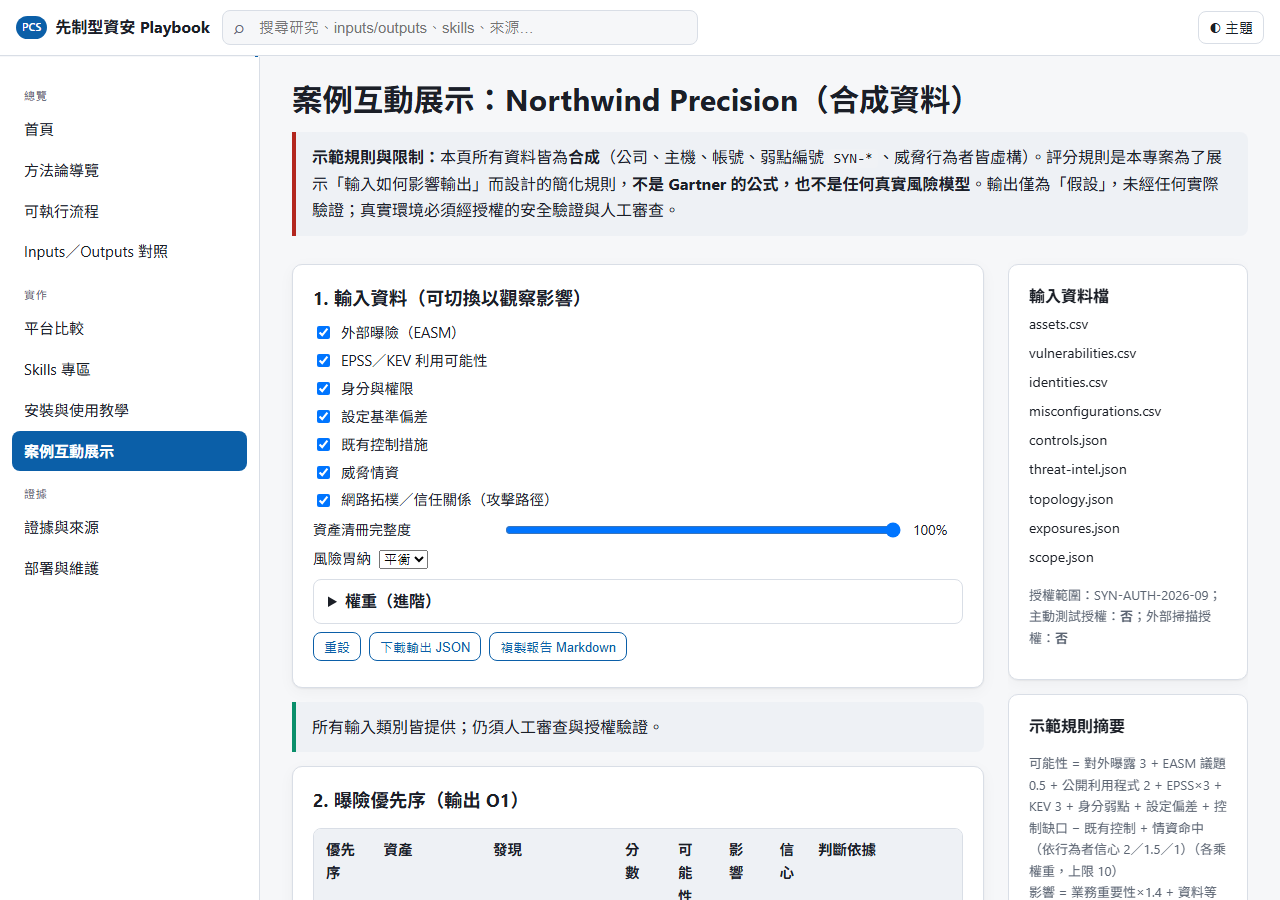
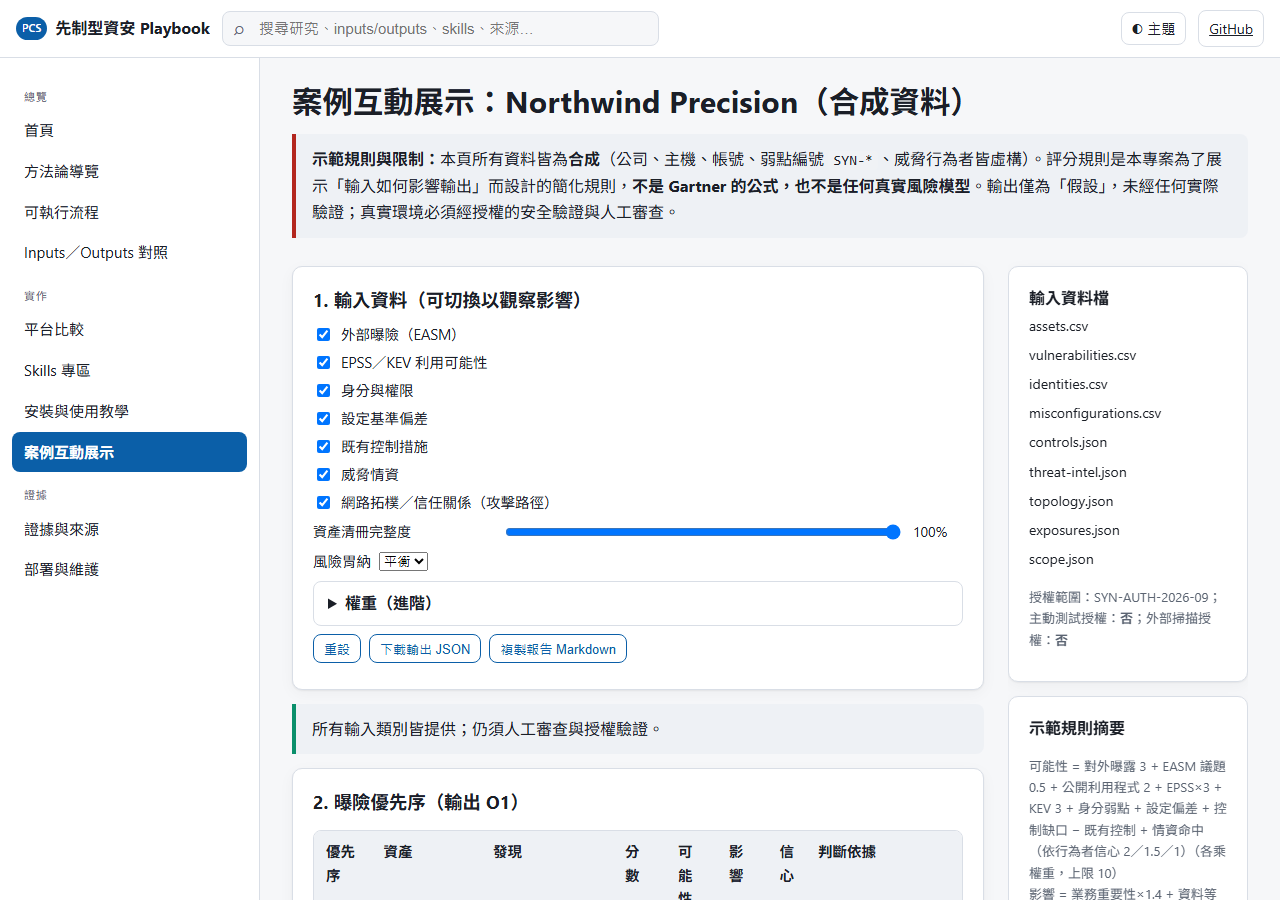
儲存庫轉為公開：顯示儲存庫連結，並讓 verify 守住這個狀態
使用者已於 2026-09-14 把儲存庫改為 public，指向 repo 的連結不再是 404。

- assets/app.js：REPO_PUBLIC 改為 true。順手把邏輯反過來——HTML 預設顯示、JS 只負責
  隱藏。這樣不會有「載入後才出現」的閃動，JS 失效時連結也還在。
- index.html：移除 #repo-link 與 #repo-footer 的 hidden，註解改為說明改回 private 時要做什麼。
- scripts/verify.mjs：新增瀏覽器檢查，比對兩個連結的實際顯示狀態與 REPO_PUBLIC 是否一致。
  這個錯誤維護者自己看不出來（有 repo 權限，連結對自己是通的），必須讓機器盯。
- docs/guides/deployment.md：第 6 節更新，並寫明「改回 private 時記得改回 false」的理由。

驗證：npm run verify 76/76（含真實 Chromium）。截圖全數更新是因為 topbar 多了 GitHub 按鈕。

diff --git a/data/guides.js b/data/guides.js
@@ -46,6 +46,6 @@ window.GUIDE_DOCS = [
   "title": "部署與維護",
   "order": 90,
   "platform": "",
-  "body": "\n## 1. 網站架構\n\n純靜態網站，無建置框架、無外部相依（無 CDN、無追蹤）：\n\n```\nindex.html            單頁應用程式殼\nassets/styles.css     樣式（淺／深色、行動裝置、列印）\nassets/md.js          極簡 Markdown 渲染器\nassets/demo.js        案例互動展示的確定性引擎\nassets/app.js         hash 路由、各頁面、全站搜尋、複製／下載\ndata/*.js             由 scripts/build-data.mjs 產生（research、guides、skills、case、manifest）或手動維護（process、io、platforms、sources）\ndownloads/*.zip       由建置腳本產生的下載包\ndocs/                 研究文件（research/）、教學（guides/）、證據檔（evidence/）\nskills/               共用規格與五平台檔案（單一來源）\nexamples/             合成範例資料、預期輸出、示範引擎快照與驗收夾具\nscripts/              build-data.mjs、verify.mjs、run-demo.mjs、check-acceptance.mjs\nbackend/              選用的模型 API 代理範例（預設不需要）\npackage.json          npm scripts（建置／驗證的唯一入口）與 Playwright 版本\n.gitattributes        強制文字檔使用 LF（見第 7 節）\nrobots.txt            允許索引，指向 sitemap\nsitemap.xml           只有一個 URL（hash 路由的 SPA，片段不被索引）\n.nojekyll             關閉 GitHub Pages 的 Jekyll 處理\n.github/workflows/    pages.yml（部署）、ci.yml（PR 驗證）、link-check.yml（來源連結檢查）、model-acceptance.yml（真實模型驗收）、quarterly-review.yml（季度查證提醒）\n.github/dependabot.yml  只追蹤 GitHub Actions 版本\n```\n\n內容以 `docs/` 與 `skills/` 為單一來源；**修改後務必執行** `npm run build` 重新產生 `data/` 與 `downloads/`，否則網站不會更新。\n\n## 2. 本機預覽\n\n```bash\ngit clone https://github.com/chinchiang/GartnerPreemptiveCybersecurity_Claude.git\ncd GartnerPreemptiveCybersecurity_Claude\nnpm run build                  # 等同 node scripts/build-data.mjs，不需要 npm install\nnpx http-server -p 8080 .      # 或 python3 -m http.server 8080\n# 開啟 http://localhost:8080/\n```\n\n建置與靜態驗證只用 Node 內建模組，**不需要 `npm install`**；只有瀏覽器驗證（Playwright）需要 `npm ci`。\n\n直接以 `file://` 開啟 `index.html` 也可運作（資料以 `<script>` 載入，不依賴 fetch）。\n\n## 3. GitHub Pages 部署\n\n工作流程 `.github/workflows/pages.yml` 會在推送到 `main` 時：安裝 Node 22 → `npm run build` → `npm run verify:static` → 上傳整個儲存庫為 Pages artifact → 部署。\n\n**已完成的一次性設定**（2026-09-13）：儲存庫 Settings → Pages → Build and deployment → Source 選 **GitHub Actions**；預設分支設為 `main`；`github-pages` 環境的部署分支規則允許 `main`。目前網址為 `https://chinchiang.github.io/GartnerPreemptiveCybersecurity_Claude/`，部署工作流程已成功執行並經人工確認。若新建 fork 或搬移儲存庫，需重做這三項設定。\n\n若偏好「Deploy from a branch」，也可以直接選 `main` 分支根目錄（因為 `data/` 與 `downloads/` 已提交），但建議用 Actions 以確保建置一致。\n\n## 4. 驗證\n\n```bash\nnpm run verify:static   # 資料檔、來源 ID 對應、schema、示範引擎驗收與快照、下載檔、機敏字串\nnpm run verify          # 加上 Playwright 瀏覽器檢查：導覽、搜尋、篩選、複製、下載、案例互動、行動裝置、無障礙\nnpm run verify:links    # 靜態檢查 + 來源連結 HEAD 檢查（不含瀏覽器），輸出 link-check.md（見第 4.2 節）\n```\n\n結果寫入 `verify-report.md`；截圖在 `verify-screenshots/`。任一項失敗時腳本以非零狀態結束。\n\n### 4.1 示範引擎快照\n\n評分規則同時存在於四個地方（`assets/demo.js`、`skills/shared/core-prompt.md`、`skills/shared/task-spec.md` 附錄 A、`skills/claude/.../references/scoring-rules.md`）。`examples/demo-snapshot.txt` 是 `run-demo.mjs` 的黃金輸出，`verify:static` 會逐位元組比對，用來抓「改了一處忘了同步其他三處」。\n\n規則**刻意**變更時：先確認四處都已同步，再執行 `npm run snapshot` 更新快照，並在 PR 說明變更理由。\n\n### 4.2 來源連結檢查在哪裡跑\n\n本地研究環境的出口 proxy 會把 gartner.com 等網域回成 403，**那不代表連結失效**。GitHub Actions runner 沒有這層限制，因此連結檢查改在 CI 執行：`.github/workflows/link-check.yml`（手動 `workflow_dispatch`，另每季 1 月／4 月／7 月／10 月 1 日自動執行），結果以 artifact 形式提供，確認後再覆蓋 `link-check.md` 並更新 `data/sources.js` 的 `LINK_CHECK_NOTE`。\n\nRunner 走資料中心 IP，Gartner 與部分媒體站仍可能因 bot 防護回 403；能藉此區分「本地 proxy 封鎖」與「站方封鎖」已是有價值的資訊。\n\n### 4.3 真實模型驗收\n\n前面兩節驗的都是**專案本身**（資料一致、示範引擎、網站行為），不需要金鑰、結果可重現。**模型實際輸出的品質**是另一件事，用 `.github/workflows/model-acceptance.yml` 手動觸發：\n\n```bash\n# 本機等價操作（金鑰只從環境變數讀）\npython3 skills/chatgpt/api-workflow.py --input-dir examples/synthetic-org --output-dir output/baseline\nnode scripts/check-acceptance.mjs output/baseline/chatgpt-output.json\n```\n\n`scripts/check-acceptance.mjs` 檢查 `references/acceptance.md` 七項驗收中可機器判定的部分：頂層鍵與每個區塊的證據欄位、九個輸入檔筆數、`vpn-gw-01/SYN-2026-0101` 是否為 P1 且含四項關鍵依據、攻擊路徑鏈是否存在且標為 `hypothesis`、驗證計畫是否每項標「尚未授權」、管理摘要長度與決策請求；`--variant no-intel` 另檢查移除情資後是否標示缺漏並下修信心。\n\n刻意**不**檢查中文品質、建議是否合理、遮罩是否足夠——這些用 `docs/evidence/model-acceptance-template.md` 人工判讀並留紀錄。\n\n`examples/acceptance-fixture.json` 是一份「應該全部通過」的合成夾具，`verify:static` 會用它反向測試驗收腳本本身沒壞（同一份夾具在 `no-intel` 變體下必須失敗，否則表示該檢查是空的）。**它不是任何模型的真實輸出。**\n\nClaude 沒有 `api-workflow.py`（只有 `scripts/validate_inputs.py`），驗收需在 Claude Code 或 claude.ai 手動執行後，把輸出 JSON 存檔再跑上面的腳本。\n\n## 5. 維護\n\n| 要更新什麼 | 改哪裡 | 之後 |\n|---|---|---|\n| 研究內容 | `docs/research/*.md`（frontmatter `order`、`title`、`summary`） | `npm run build` |\n| 來源、待驗證清單、連結檢查紀錄 | `data/sources.js` | 無需 build |\n| 流程／I-O／平台比較 | `data/process.js`、`data/io.js`、`data/platforms.js` | 無需 build |\n| Skills | `skills/<platform>/…`；規則變更先改 `skills/shared/` 再同步各平台 | `npm run build` |\n| 教學 | `docs/guides/<platform>.md` | `npm run build` |\n| 範例資料 | `examples/synthetic-org/`（保持合成） | build；`npm run demo` 對照 `examples/expected-output.md`，再 `npm run snapshot` |\n| 評分規則 | `skills/shared/task-spec.md` 附錄 A、`core-prompt.md`、`assets/demo.js`、`references/scoring-rules.md` 需一致 | build + verify + `npm run snapshot` |\n\n`data/` 與 `downloads/` 是建置產物但**有進版控**（為了讓 `file://` 與「Deploy from a branch」都能用）。CI 會執行 `git diff --exit-code -- data/ downloads/`，忘記重建就會擋下 PR。`data/manifest.js` 內的 `contentHash` 是來源內容的 SHA-256 前 12 碼——刻意不放建置時間，這樣同一份內容永遠產生同一個 manifest，上述檢查才守得住。\n\n建議每季重新查證：Gartner 新文件（尤其 Impact Radar 與 Hype Cycle 更新）、五個平台的模型與功能變動（見待驗證清單）。這件事已由 `.github/workflows/quarterly-review.yml` 每季（1／4／7／10 月 1 日）自動開一個 issue，內容是 `data/sources.js` 中 `status: 'pending'` 的項目所組成的勾選清單（`node scripts/todo-checklist.mjs` 可在本機預覽）。查證完成後把該項改成 `status: 'done'` 並填 `resolvedAt`——`verify:static` 會檢查 `pending` 項目都寫出了下一步、`done` 項目都有日期。\n\n`sitemap.xml` 的 `<lastmod>` 是手寫的，內容有較大幅度更新時順手改一下即可（刻意不由建置產生：那會讓 `data/` 的一致性檢查每天都失敗）。\n\n## 6. 安全與隱私\n\n- 儲存庫與網站不含任何 API 金鑰、憑證或真實資料；`verify.mjs` 會掃描金鑰樣式字串。\n- 網站不使用 cookie、不連外部服務；主題偏好只存於 `localStorage`。\n- `index.html` 有 CSP meta：`default-src 'self'`、`object-src 'none'`、`form-action 'none'`。`style-src` 必須保留 `'unsafe-inline'`（`assets/app.js` 有 18 處 `style=\"…\"` 屬性），`img-src` 必須保留 `data:`（favicon 是內嵌 SVG）。**加入任何外部資源前先改這一行**，否則瀏覽器會靜默擋掉；`npm run verify` 會把 CSP 違規當成 console error 而失敗。\n- 儲存庫目前為 private 而 Pages 站點公開，因此指向儲存庫的連結（topbar 按鈕與頁尾）預設隱藏，由 `assets/app.js` 的 `REPO_PUBLIC` 控制；轉為公開後改成 `true`。\n- 若啟用 `backend/` 代理，金鑰只在伺服器端，並限制來源與速率。\n\n## 7. 在 Windows 上開發\n\n`.gitattributes` 以 `* text=auto eol=lf` 強制所有文字檔在工作樹中使用 LF。**這不是風格偏好**：`build-data.mjs` 會把 `docs/` 與 `skills/` 的內容內嵌進 `data/*.js` 並打包成 ZIP，若以 CRLF 簽出，產出的位元組就與 Linux（CI／Pages）不同，第 5 節的一致性檢查會誤報。\n\n腳本本身也已對 CRLF 免疫（`readText()` 正規化換行、`parseFrontmatter()` 接受 `\\r?\\n`、路徑一律轉為 `/`），所以就算你的工作樹是 CRLF，建置結果仍然正確。若是在加入 `.gitattributes` 之前就已存在的 clone，執行一次 `git add --renormalize .` 確認索引乾淨即可。\n\n另外：`docs/guides/claude.md` 在不分大小寫的檔案系統上會被 Claude Code 誤認為 `CLAUDE.md` 專案指令檔而自動載入。這只影響在本儲存庫中使用 Claude Code 的體驗，不影響網站；若造成干擾，可在根目錄放一份真正的 `CLAUDE.md` 覆寫。\n"
+  "body": "\n## 1. 網站架構\n\n純靜態網站，無建置框架、無外部相依（無 CDN、無追蹤）：\n\n```\nindex.html            單頁應用程式殼\nassets/styles.css     樣式（淺／深色、行動裝置、列印）\nassets/md.js          極簡 Markdown 渲染器\nassets/demo.js        案例互動展示的確定性引擎\nassets/app.js         hash 路由、各頁面、全站搜尋、複製／下載\ndata/*.js             由 scripts/build-data.mjs 產生（research、guides、skills、case、manifest）或手動維護（process、io、platforms、sources）\ndownloads/*.zip       由建置腳本產生的下載包\ndocs/                 研究文件（research/）、教學（guides/）、證據檔（evidence/）\nskills/               共用規格與五平台檔案（單一來源）\nexamples/             合成範例資料、預期輸出、示範引擎快照與驗收夾具\nscripts/              build-data.mjs、verify.mjs、run-demo.mjs、check-acceptance.mjs\nbackend/              選用的模型 API 代理範例（預設不需要）\npackage.json          npm scripts（建置／驗證的唯一入口）與 Playwright 版本\n.gitattributes        強制文字檔使用 LF（見第 7 節）\nrobots.txt            允許索引，指向 sitemap\nsitemap.xml           只有一個 URL（hash 路由的 SPA，片段不被索引）\n.nojekyll             關閉 GitHub Pages 的 Jekyll 處理\n.github/workflows/    pages.yml（部署）、ci.yml（PR 驗證）、link-check.yml（來源連結檢查）、model-acceptance.yml（真實模型驗收）、quarterly-review.yml（季度查證提醒）\n.github/dependabot.yml  只追蹤 GitHub Actions 版本\n```\n\n內容以 `docs/` 與 `skills/` 為單一來源；**修改後務必執行** `npm run build` 重新產生 `data/` 與 `downloads/`，否則網站不會更新。\n\n## 2. 本機預覽\n\n```bash\ngit clone https://github.com/chinchiang/GartnerPreemptiveCybersecurity_Claude.git\ncd GartnerPreemptiveCybersecurity_Claude\nnpm run build                  # 等同 node scripts/build-data.mjs，不需要 npm install\nnpx http-server -p 8080 .      # 或 python3 -m http.server 8080\n# 開啟 http://localhost:8080/\n```\n\n建置與靜態驗證只用 Node 內建模組，**不需要 `npm install`**；只有瀏覽器驗證（Playwright）需要 `npm ci`。\n\n直接以 `file://` 開啟 `index.html` 也可運作（資料以 `<script>` 載入，不依賴 fetch）。\n\n## 3. GitHub Pages 部署\n\n工作流程 `.github/workflows/pages.yml` 會在推送到 `main` 時：安裝 Node 22 → `npm run build` → `npm run verify:static` → 上傳整個儲存庫為 Pages artifact → 部署。\n\n**已完成的一次性設定**（2026-09-13）：儲存庫 Settings → Pages → Build and deployment → Source 選 **GitHub Actions**；預設分支設為 `main`；`github-pages` 環境的部署分支規則允許 `main`。目前網址為 `https://chinchiang.github.io/GartnerPreemptiveCybersecurity_Claude/`，部署工作流程已成功執行並經人工確認。若新建 fork 或搬移儲存庫，需重做這三項設定。\n\n若偏好「Deploy from a branch」，也可以直接選 `main` 分支根目錄（因為 `data/` 與 `downloads/` 已提交），但建議用 Actions 以確保建置一致。\n\n## 4. 驗證\n\n```bash\nnpm run verify:static   # 資料檔、來源 ID 對應、schema、示範引擎驗收與快照、下載檔、機敏字串\nnpm run verify          # 加上 Playwright 瀏覽器檢查：導覽、搜尋、篩選、複製、下載、案例互動、行動裝置、無障礙\nnpm run verify:links    # 靜態檢查 + 來源連結 HEAD 檢查（不含瀏覽器），輸出 link-check.md（見第 4.2 節）\n```\n\n結果寫入 `verify-report.md`；截圖在 `verify-screenshots/`。任一項失敗時腳本以非零狀態結束。\n\n### 4.1 示範引擎快照\n\n評分規則同時存在於四個地方（`assets/demo.js`、`skills/shared/core-prompt.md`、`skills/shared/task-spec.md` 附錄 A、`skills/claude/.../references/scoring-rules.md`）。`examples/demo-snapshot.txt` 是 `run-demo.mjs` 的黃金輸出，`verify:static` 會逐位元組比對，用來抓「改了一處忘了同步其他三處」。\n\n規則**刻意**變更時：先確認四處都已同步，再執行 `npm run snapshot` 更新快照，並在 PR 說明變更理由。\n\n### 4.2 來源連結檢查在哪裡跑\n\n本地研究環境的出口 proxy 會把 gartner.com 等網域回成 403，**那不代表連結失效**。GitHub Actions runner 沒有這層限制，因此連結檢查改在 CI 執行：`.github/workflows/link-check.yml`（手動 `workflow_dispatch`，另每季 1 月／4 月／7 月／10 月 1 日自動執行），結果以 artifact 形式提供，確認後再覆蓋 `link-check.md` 並更新 `data/sources.js` 的 `LINK_CHECK_NOTE`。\n\nRunner 走資料中心 IP，Gartner 與部分媒體站仍可能因 bot 防護回 403；能藉此區分「本地 proxy 封鎖」與「站方封鎖」已是有價值的資訊。\n\n### 4.3 真實模型驗收\n\n前面兩節驗的都是**專案本身**（資料一致、示範引擎、網站行為），不需要金鑰、結果可重現。**模型實際輸出的品質**是另一件事，用 `.github/workflows/model-acceptance.yml` 手動觸發：\n\n```bash\n# 本機等價操作（金鑰只從環境變數讀）\npython3 skills/chatgpt/api-workflow.py --input-dir examples/synthetic-org --output-dir output/baseline\nnode scripts/check-acceptance.mjs output/baseline/chatgpt-output.json\n```\n\n`scripts/check-acceptance.mjs` 檢查 `references/acceptance.md` 七項驗收中可機器判定的部分：頂層鍵與每個區塊的證據欄位、九個輸入檔筆數、`vpn-gw-01/SYN-2026-0101` 是否為 P1 且含四項關鍵依據、攻擊路徑鏈是否存在且標為 `hypothesis`、驗證計畫是否每項標「尚未授權」、管理摘要長度與決策請求；`--variant no-intel` 另檢查移除情資後是否標示缺漏並下修信心。\n\n刻意**不**檢查中文品質、建議是否合理、遮罩是否足夠——這些用 `docs/evidence/model-acceptance-template.md` 人工判讀並留紀錄。\n\n`examples/acceptance-fixture.json` 是一份「應該全部通過」的合成夾具，`verify:static` 會用它反向測試驗收腳本本身沒壞（同一份夾具在 `no-intel` 變體下必須失敗，否則表示該檢查是空的）。**它不是任何模型的真實輸出。**\n\nClaude 沒有 `api-workflow.py`（只有 `scripts/validate_inputs.py`），驗收需在 Claude Code 或 claude.ai 手動執行後，把輸出 JSON 存檔再跑上面的腳本。\n\n## 5. 維護\n\n| 要更新什麼 | 改哪裡 | 之後 |\n|---|---|---|\n| 研究內容 | `docs/research/*.md`（frontmatter `order`、`title`、`summary`） | `npm run build` |\n| 來源、待驗證清單、連結檢查紀錄 | `data/sources.js` | 無需 build |\n| 流程／I-O／平台比較 | `data/process.js`、`data/io.js`、`data/platforms.js` | 無需 build |\n| Skills | `skills/<platform>/…`；規則變更先改 `skills/shared/` 再同步各平台 | `npm run build` |\n| 教學 | `docs/guides/<platform>.md` | `npm run build` |\n| 範例資料 | `examples/synthetic-org/`（保持合成） | build；`npm run demo` 對照 `examples/expected-output.md`，再 `npm run snapshot` |\n| 評分規則 | `skills/shared/task-spec.md` 附錄 A、`core-prompt.md`、`assets/demo.js`、`references/scoring-rules.md` 需一致 | build + verify + `npm run snapshot` |\n\n`data/` 與 `downloads/` 是建置產物但**有進版控**（為了讓 `file://` 與「Deploy from a branch」都能用）。CI 會執行 `git diff --exit-code -- data/ downloads/`，忘記重建就會擋下 PR。`data/manifest.js` 內的 `contentHash` 是來源內容的 SHA-256 前 12 碼——刻意不放建置時間，這樣同一份內容永遠產生同一個 manifest，上述檢查才守得住。\n\n建議每季重新查證：Gartner 新文件（尤其 Impact Radar 與 Hype Cycle 更新）、五個平台的模型與功能變動（見待驗證清單）。這件事已由 `.github/workflows/quarterly-review.yml` 每季（1／4／7／10 月 1 日）自動開一個 issue，內容是 `data/sources.js` 中 `status: 'pending'` 的項目所組成的勾選清單（`node scripts/todo-checklist.mjs` 可在本機預覽）。查證完成後把該項改成 `status: 'done'` 並填 `resolvedAt`——`verify:static` 會檢查 `pending` 項目都寫出了下一步、`done` 項目都有日期。\n\n`sitemap.xml` 的 `<lastmod>` 是手寫的，內容有較大幅度更新時順手改一下即可（刻意不由建置產生：那會讓 `data/` 的一致性檢查每天都失敗）。\n\n## 6. 安全與隱私\n\n- 儲存庫與網站不含任何 API 金鑰、憑證或真實資料；`verify.mjs` 會掃描金鑰樣式字串。\n- 網站不使用 cookie、不連外部服務；主題偏好只存於 `localStorage`。\n- `index.html` 有 CSP meta：`default-src 'self'`、`object-src 'none'`、`form-action 'none'`。`style-src` 必須保留 `'unsafe-inline'`（`assets/app.js` 有 18 處 `style=\"…\"` 屬性），`img-src` 必須保留 `data:`（favicon 是內嵌 SVG）。**加入任何外部資源前先改這一行**，否則瀏覽器會靜默擋掉；`npm run verify` 會把 CSP 違規當成 console error 而失敗。\n- 儲存庫已於 2026-09-14 轉為公開，指向儲存庫的連結（topbar 按鈕與頁尾）因此顯示。**若改回 private 記得把 `assets/app.js` 的 `REPO_PUBLIC` 改成 `false`**：Pages 站點是公開的，指向 private 儲存庫的連結對訪客一律是 404，而站在維護者的瀏覽器裡看不出來（你有權限）。\n- 若啟用 `backend/` 代理，金鑰只在伺服器端，並限制來源與速率。\n\n## 7. 在 Windows 上開發\n\n`.gitattributes` 以 `* text=auto eol=lf` 強制所有文字檔在工作樹中使用 LF。**這不是風格偏好**：`build-data.mjs` 會把 `docs/` 與 `skills/` 的內容內嵌進 `data/*.js` 並打包成 ZIP，若以 CRLF 簽出，產出的位元組就與 Linux（CI／Pages）不同，第 5 節的一致性檢查會誤報。\n\n腳本本身也已對 CRLF 免疫（`readText()` 正規化換行、`parseFrontmatter()` 接受 `\\r?\\n`、路徑一律轉為 `/`），所以就算你的工作樹是 CRLF，建置結果仍然正確。若是在加入 `.gitattributes` 之前就已存在的 clone，執行一次 `git add --renormalize .` 確認索引乾淨即可。\n\n另外：`docs/guides/claude.md` 在不分大小寫的檔案系統上會被 Claude Code 誤認為 `CLAUDE.md` 專案指令檔而自動載入。這只影響在本儲存庫中使用 Claude Code 的體驗，不影響網站；若造成干擾，可在根目錄放一份真正的 `CLAUDE.md` 覆寫。\n"
  }
 ];

diff --git a/assets/app.js b/assets/app.js
@@ -10,9 +10,10 @@
     stages: window.PROCESS_STAGES || [], io: window.IO_ITEMS || [], platforms: window.PLATFORMS || [], sources: window.SOURCES || [], todo: window.TODO_ITEMS || [],
     manifest: window.BUILD_MANIFEST || {}
   };
-  // 儲存庫為 private、Pages 站點為公開時，任何指向 repo 的連結對訪客都是 404。
-  // 儲存庫轉為公開後把 REPO_PUBLIC 改成 true，topbar 的 GitHub 按鈕與頁尾的儲存庫連結就會顯示。
-  const REPO_PUBLIC = false;
+  // 儲存庫已於 2026-09-14 轉為公開，因此指向 repo 的連結（topbar 按鈕、頁尾）預設顯示。
+  // 若改回 private，把這裡改成 false 即會隱藏——Pages 站點是公開的，指向 private 儲存庫的
+  // 連結對訪客一律是 404。預設值放在 HTML（可見），JS 只負責隱藏，這樣 JS 失效時連結仍在。
+  const REPO_PUBLIC = true;
   const PLATFORM_META = { claude: 'Claude', chatgpt: 'ChatGPT', grok: 'Grok', glm: 'GLM', deepseek: 'DeepSeek', shared: '共用規格' };
   const PLATFORM_ORDER = ['shared', 'chatgpt', 'claude', 'grok', 'glm', 'deepseek'];
   const TAG = { fact: '<span class="pill fact">Gartner 明確陳述</span>', third: '<span class="pill">其他來源</span>', infer: '<span class="pill infer">本專案推論</span>', rec: '<span class="pill rec">建議</span>', todo: '<span class="pill todo">待驗證</span>' };
@@ -456,7 +457,7 @@
   // ---------- 初始化 ----------
   function init() {
     $('.sidebar nav').innerHTML = NAV.map(([g, items]) => `<div class="group">${g}</div>${items.map(([h, t]) => `<a href="#${h}">${t}</a>`).join('')}`).join('');
-    if (REPO_PUBLIC) for (const id of ['#repo-link', '#repo-footer']) { const n = $(id); if (n) n.hidden = false; }
+    if (!REPO_PUBLIC) for (const id of ['#repo-link', '#repo-footer']) { const n = $(id); if (n) n.hidden = true; }
     $('#menu-btn').addEventListener('click', () => { const s = $('.sidebar'); s.classList.toggle('open'); $('#menu-btn').setAttribute('aria-expanded', s.classList.contains('open')); });
     const themeBtn = $('#theme-btn');
     const applyTheme = (t) => { if (t) document.documentElement.setAttribute('data-theme', t); else document.documentElement.removeAttribute('data-theme'); themeBtn.textContent = t === 'dark' ? '☀ 淺色' : t === 'light' ? '☾ 深色' : '◐ 主題'; };

diff --git a/index.html b/index.html
@@ -37,9 +37,10 @@
     </div>
     <div class="spacer"></div>
     <button class="icon-btn" id="theme-btn" aria-label="切換色彩主題">◐ 主題</button>
-    <!-- 儲存庫目前為 private，Pages 站點是公開的：對訪客而言此連結是 404，因此預設隱藏。
-         儲存庫轉為公開後，把 assets/app.js 的 REPO_PUBLIC 改成 true 即會顯示。 -->
-    <a class="icon-btn" id="repo-link" hidden href="https://github.com/chinchiang/GartnerPreemptiveCybersecurity_Claude" target="_blank" rel="noopener" aria-label="GitHub 儲存庫">GitHub</a>
+    <!-- 儲存庫為公開，因此此連結預設顯示。
+         若日後改回 private，把 assets/app.js 的 REPO_PUBLIC 改成 false，這個按鈕與頁尾的
+         儲存庫連結就會隱藏——Pages 站點是公開的，指向 private 儲存庫的連結對訪客是 404。 -->
+    <a class="icon-btn" id="repo-link" href="https://github.com/chinchiang/GartnerPreemptiveCybersecurity_Claude" target="_blank" rel="noopener" aria-label="GitHub 儲存庫">GitHub</a>
   </header>
   <div class="layout">
     <aside class="sidebar" id="sidebar" aria-label="主要導覽"><nav></nav></aside>
@@ -47,9 +48,8 @@
   </div>
   <footer class="site-footer">
     本站內容以正體中文撰寫，保留必要英文專有名詞。Gartner 為 Gartner, Inc. 之商標；本站與 Gartner 無關，引用僅限公開資料並標示來源。所有示範資料皆為合成。
-    <!-- 與 topbar 的 GitHub 按鈕同理：儲存庫為 private 時，這個連結對訪客是 404，因此預設隱藏。
-         由 assets/app.js 的 REPO_PUBLIC 控制。 -->
-    <span id="repo-footer" hidden>儲存庫：<a href="https://github.com/chinchiang/GartnerPreemptiveCybersecurity_Claude" target="_blank" rel="noopener">chinchiang/GartnerPreemptiveCybersecurity_Claude</a></span>
+    <!-- 與 topbar 的 GitHub 按鈕同受 assets/app.js 的 REPO_PUBLIC 控制。 -->
+    <span id="repo-footer">儲存庫：<a href="https://github.com/chinchiang/GartnerPreemptiveCybersecurity_Claude" target="_blank" rel="noopener">chinchiang/GartnerPreemptiveCybersecurity_Claude</a></span>
   </footer>
   <div class="toast" id="toast" role="status" aria-live="polite"></div>
 

diff --git a/data/manifest.js b/data/manifest.js
@@ -1,6 +1,6 @@
 // 由 scripts/build-data.mjs 自動產生，請勿手動編輯。
 window.BUILD_MANIFEST = {
- "contentHash": "8a79bc420e94",
+ "contentHash": "d5751bf30bd2",
  "research": [
   {
    "id": "00-method",

diff --git a/verify-report.md b/verify-report.md
@@ -1,8 +1,8 @@
 # 驗證報告
 
-執行時間：2026-09-14T01:28:38.543Z
+執行時間：2026-09-14T02:48:45.690Z
 模式：full
-結果：75/75 通過
+結果：76/76 通過
 
 | 檢查 | 結果 | 說明 |
 |---|---|---|
@@ -80,4 +80,5 @@
 | 行動裝置：無水平捲動 | ✅ | scrollWidth 390 |
 | 行動裝置：漢堡選單開啟 | ✅ |  |
 | 無障礙：skip link、lang、aria-current | ✅ |  |
+| 儲存庫連結顯示狀態符合 REPO_PUBLIC=true | ✅ | 實際 顯示 |
 | 無 JS 執行錯誤 | ✅ |  |
